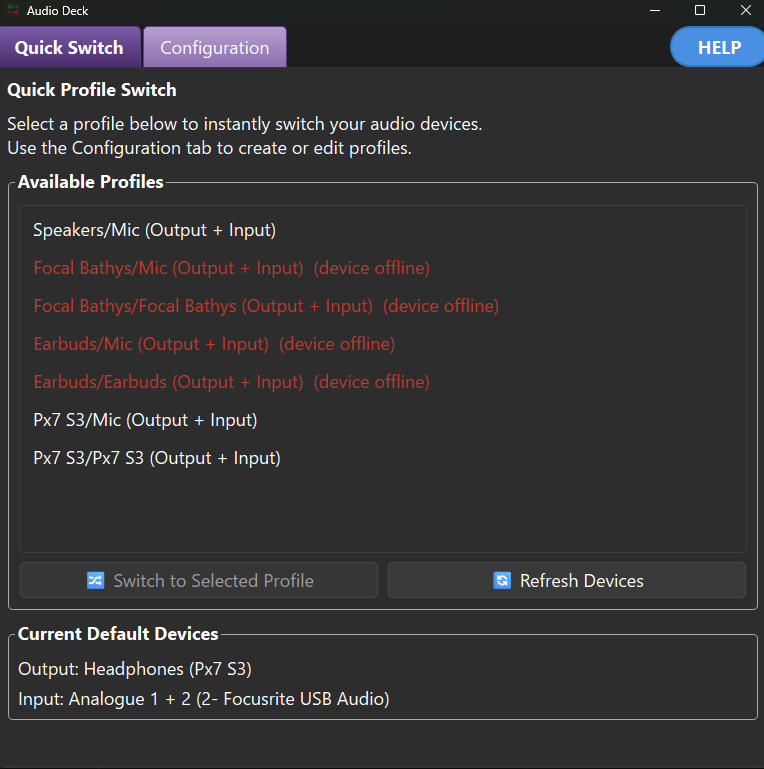
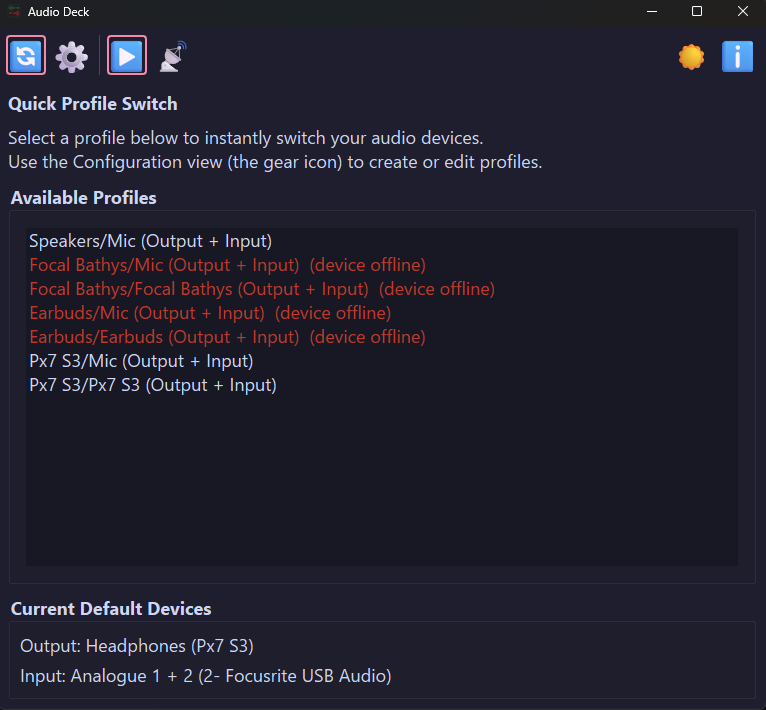
Refresh the site copy and screenshots for the tray UI, themes and the licence split

diff --git a/docs/index.html b/docs/index.html
@@ -36,7 +36,7 @@
     "url": "https://ernster.dev/AudioDeck/",
     "downloadUrl": "https://github.com/oernster/AudioDeck/releases",
     "softwareHelp": "https://github.com/oernster/AudioDeck",
-    "license": "https://www.gnu.org/licenses/lgpl-3.0.html",
+    "license": ["https://www.gnu.org/licenses/gpl-3.0.html", "https://www.gnu.org/licenses/lgpl-3.0.html"],
     "image": "https://ernster.dev/AudioDeck/audiodeck-512.png",
     "offers": {"@type": "Offer", "price": "0", "priceCurrency": "USD"},
     "author": {"@type": "Person", "name": "Oliver Ernster", "url": "https://github.com/oernster"}
@@ -513,9 +513,9 @@
 
   <div class="hero-shot fade d4">
     <div class="shot">
-      <img src="screenshots/audiodeck1.png" width="772" height="766" alt="Audio Deck Quick Switch tab: a list of saved profiles with offline devices marked, above the current default output and input devices.">
+      <img src="screenshots/audiodeck1.png" width="766" height="710" alt="Audio Deck Quick Switch view: the header tray of icon buttons above a list of saved profiles with offline devices marked, above the current default output and input devices.">
     </div>
-    <p class="shot-caption">Quick Switch: pick a profile and switch. Offline devices are marked and applied automatically when they reconnect.</p>
+    <p class="shot-caption">Quick Switch: pick a profile and press ▶ in the header tray. Offline devices are marked and applied automatically when they reconnect.</p>
   </div>
 </section>
 
@@ -526,7 +526,7 @@
     <div class="stat"><div class="stat-value">GUI + CLI</div><div class="stat-label">Two interfaces</div></div>
     <div class="stat"><div class="stat-value">Stream Deck</div><div class="stat-label">One button per setup</div></div>
     <div class="stat"><div class="stat-value">0</div><div class="stat-label">Accounts or cloud</div></div>
-    <div class="stat"><div class="stat-value">LGPL-3.0</div><div class="stat-label">Open source</div></div>
+    <div class="stat"><div class="stat-value">GPL + LGPL</div><div class="stat-label">Open source</div></div>
   </div>
 </div>
 
@@ -551,7 +551,7 @@
         <svg width="22" height="22" viewBox="0 0 24 24" fill="none" stroke="currentColor" stroke-width="2" stroke-linecap="round" stroke-linejoin="round"><path d="M17 1l4 4-4 4"/><path d="M3 11V9a4 4 0 0 1 4-4h14"/><path d="M7 23l-4-4 4-4"/><path d="M21 13v2a4 4 0 0 1-4 4H3"/></svg>
       </div>
       <h3>One-click switching</h3>
-      <p>The Quick Switch tab lists every profile. Click <em>Switch to Selected Profile</em> or just double-click a profile to apply it.</p>
+      <p>The Quick Switch view lists every profile. Press ▶ in the header tray or just double-click a profile to apply it.</p>
     </div>
 
     <div class="feat">
@@ -567,7 +567,7 @@
         <svg width="22" height="22" viewBox="0 0 24 24" fill="none" stroke="currentColor" stroke-width="2" stroke-linecap="round" stroke-linejoin="round"><rect x="3" y="3" width="7" height="7" rx="1"/><rect x="14" y="3" width="7" height="7" rx="1"/><rect x="3" y="14" width="7" height="7" rx="1"/><rect x="14" y="14" width="7" height="7" rx="1"/></svg>
       </div>
       <h3>Stream Deck ready</h3>
-      <p>Map a profile to a physical key with BarRaider's Advanced Launcher plugin or a one-line batch file. One press, one setup.</p>
+      <p>Map a profile to a physical key with BarRaider's Advanced Launcher plugin on Windows, and any macro deck or macro buttons that can run a command work on every OS. One press, one setup.</p>
     </div>
 
     <div class="feat">
@@ -591,7 +591,7 @@
         <svg width="22" height="22" viewBox="0 0 24 24" fill="none" stroke="currentColor" stroke-width="2" stroke-linecap="round" stroke-linejoin="round"><polyline points="23 4 23 10 17 10"/><polyline points="1 20 1 14 7 14"/><path d="M3.51 9a9 9 0 0 1 14.85-3.36L23 10M1 14l4.64 4.36A9 9 0 0 0 20.49 15"/></svg>
       </div>
       <h3>Live device rescan</h3>
-      <p>The device list refreshes on system device changes and periodically. <em>Refresh Devices</em> forces an immediate rescan on demand.</p>
+      <p>The device list refreshes on system device changes and periodically. The 📡 tray button forces an immediate rescan on demand.</p>
     </div>
 
     <div class="feat">
@@ -599,7 +599,7 @@
         <svg width="22" height="22" viewBox="0 0 24 24" fill="none" stroke="currentColor" stroke-width="2" stroke-linecap="round" stroke-linejoin="round"><rect x="2" y="3" width="20" height="14" rx="2"/><line x1="8" y1="21" x2="16" y2="21"/><line x1="12" y1="17" x2="12" y2="21"/></svg>
       </div>
       <h3>Local-first</h3>
-      <p>Profiles are stored as JSON under <code class="inline">%LOCALAPPDATA%</code>. Runs per user, no admin rights; nothing about you or your profiles ever leaves your machine.</p>
+      <p>Profiles are stored as JSON in your platform's per-user app-data folder. Runs per user, no admin rights; nothing about you or your profiles ever leaves your machine.</p>
     </div>
 
     <div class="feat">
@@ -608,6 +608,22 @@
       </div>
       <h3>Update check</h3>
       <p>A quiet check against GitHub's releases shortly after launch, daily and on demand from the Help menu: Download the installer, Skip This Version for good or Later. Anonymous; silent when GitHub is unreachable.</p>
+    </div>
+
+    <div class="feat">
+      <div class="feat-icon ic-yellow">
+        <svg width="22" height="22" viewBox="0 0 24 24" fill="none" stroke="currentColor" stroke-width="2" stroke-linecap="round" stroke-linejoin="round"><circle cx="12" cy="12" r="5"/><line x1="12" y1="1" x2="12" y2="3"/><line x1="12" y1="21" x2="12" y2="23"/><line x1="4.22" y1="4.22" x2="5.64" y2="5.64"/><line x1="18.36" y1="18.36" x2="19.78" y2="19.78"/><line x1="1" y1="12" x2="3" y2="12"/><line x1="21" y1="12" x2="23" y2="12"/><line x1="4.22" y1="19.78" x2="5.64" y2="18.36"/><line x1="18.36" y1="5.64" x2="19.78" y2="4.22"/></svg>
+      </div>
+      <h3>Dark and light themes</h3>
+      <p>A sun and moon toggle in the header tray restyles the whole app at a click, on every platform. Dark is the default and the choice persists between launches.</p>
+    </div>
+
+    <div class="feat">
+      <div class="feat-icon ic-teal">
+        <svg width="22" height="22" viewBox="0 0 24 24" fill="none" stroke="currentColor" stroke-width="2" stroke-linecap="round" stroke-linejoin="round"><rect x="2" y="6" width="20" height="12" rx="2"/><line x1="6" y1="10" x2="6" y2="10"/><line x1="10" y1="10" x2="10" y2="10"/><line x1="14" y1="10" x2="14" y2="10"/><line x1="18" y1="10" x2="18" y2="10"/><line x1="7" y1="14" x2="17" y2="14"/></svg>
+      </div>
+      <h3>Keyboard first</h3>
+      <p>Everything is reachable without the mouse: Tab and the arrow keys walk one explicit focus ring, lists walk with Up and Down and a green ring always shows exactly where you are.</p>
     </div>
     <div class="feat feat-wide">
       <div class="feat-icon ic-pink">
@@ -628,10 +644,10 @@
     <div class="split-grid">
       <div class="split-text">
         <div class="section-label">Configuration</div>
-        <h2 class="section-title" style="margin-bottom:1.25rem;">Two tabs, that's<br>the whole app.</h2>
-        <p>Create and edit profiles on the Configuration tab. Name the profile, pick an output device and an input device from the live dropdowns, then save.</p>
+        <h2 class="section-title" style="margin-bottom:1.25rem;">Two views, one tray,<br>that's the whole app.</h2>
+        <p>Create and edit profiles on the Configuration view. The actions live as icons in the header tray and swap with the active view: new, edit, delete, save and cancel. Name the profile, pick an output device and an input device from the live dropdowns, then save.</p>
         <ul>
-          <li>New, edit and delete from the saved-profiles list.</li>
+          <li>New, edit and delete from the header tray; unavailable actions wear a red ring.</li>
           <li>Output and input chosen independently per profile.</li>
           <li>Deletions are confirmed before anything is removed.</li>
           <li>Switch over to Quick Switch and you are one click from any setup.</li>
@@ -639,9 +655,9 @@
       </div>
       <div>
         <div class="shot">
-          <img src="screenshots/audiodeck2.png" width="771" height="766" alt="Audio Deck Configuration tab: the saved-profiles list with New, Edit and Delete buttons above a profile editor showing profile name, output device and input device dropdowns.">
+          <img src="screenshots/audiodeck2.png" width="766" height="712" alt="Audio Deck Configuration view: the header tray action icons above the saved-profiles list and a profile editor showing profile name, output device and input device dropdowns.">
         </div>
-        <p class="shot-caption">Configuration: the profile editor with live output and input device dropdowns.</p>
+        <p class="shot-caption">Configuration: the tray action icons above the saved profiles and the profile editor.</p>
       </div>
     </div>
   </section>
@@ -730,7 +746,7 @@ AudioDeck.exe
       <!-- Infrastructure -->
       <rect class="box" x="480" y="150" width="350" height="72" fill="rgba(250,179,135,0.10)" stroke="#fab387"/>
       <text class="lbl" x="655" y="182" text-anchor="middle">Infrastructure</text>
-      <text class="sub" x="655" y="204" text-anchor="middle">pycaw / comtypes (Core Audio) &middot; JSON store</text>
+      <text class="sub" x="655" y="204" text-anchor="middle">pycaw &middot; pactl &middot; CoreAudio &middot; JSON store</text>
 
       <!-- deps -->
       <line class="dep" x1="250" y1="69" x2="190" y2="69" marker-end="url(#arr)"/>
@@ -747,7 +763,7 @@ AudioDeck.exe
   <section class="section" id="download">
     <div class="section-label">Get AudioDeck</div>
     <h2 class="section-title">Download AudioDeck</h2>
-    <p class="section-sub">Download the newest release with one click. Free and LGPL-3.0 with no account and no cloud; your profiles live in a local JSON file on your machine.</p>
+    <p class="section-sub">Download the newest release with one click. Free and open source (the backend under GPL-3.0, the user interface under LGPL-3.0) with no account and no cloud; your profiles live in a local JSON file on your machine.</p>
     <span class="dl-version" id="dl-version">Latest release</span>
     <div class="downloads">
       <div class="dl-card">

diff --git a/docs/why.html b/docs/why.html
@@ -179,11 +179,12 @@
         Bluetooth headset) applies the moment it reconnects and a partial switch reports what is
         missing rather than silently half-failing.</p>
       <p>Under the surface it is a four-layer clean architecture in Python: a pure domain, an
-        application layer of use cases, infrastructure speaking to each platform's audio stack through
-        pycaw and comtypes and two thin clients (the PySide6 GUI and the CLI) wired in separate
+        application layer of use cases, infrastructure speaking to each platform's audio stack
+        (Windows Core Audio through pycaw, PulseAudio and PipeWire through pactl, macOS CoreAudio)
+        and two thin clients (the PySide6 GUI and the CLI) wired in separate
         composition roots. Structural tests parse the source on every run, so a layering
         violation fails the build instead of surviving into review.</p>
-      <p>What works now is a two-tab app that installs per-user with no administrator rights and
+      <p>What works now is a two-view app that installs per-user with no administrator rights and
         stores profiles in a local JSON file under your own AppData: no account, no cloud, no
         background service. The one thing it asks the network is whether a newer release exists,
         an anonymous daily call to GitHub's releases API that carries nothing about you or your
